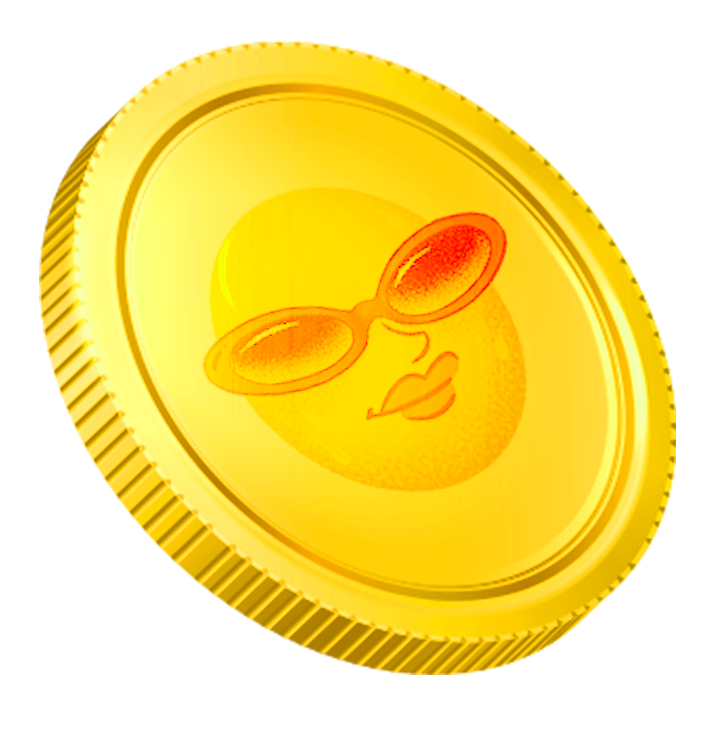
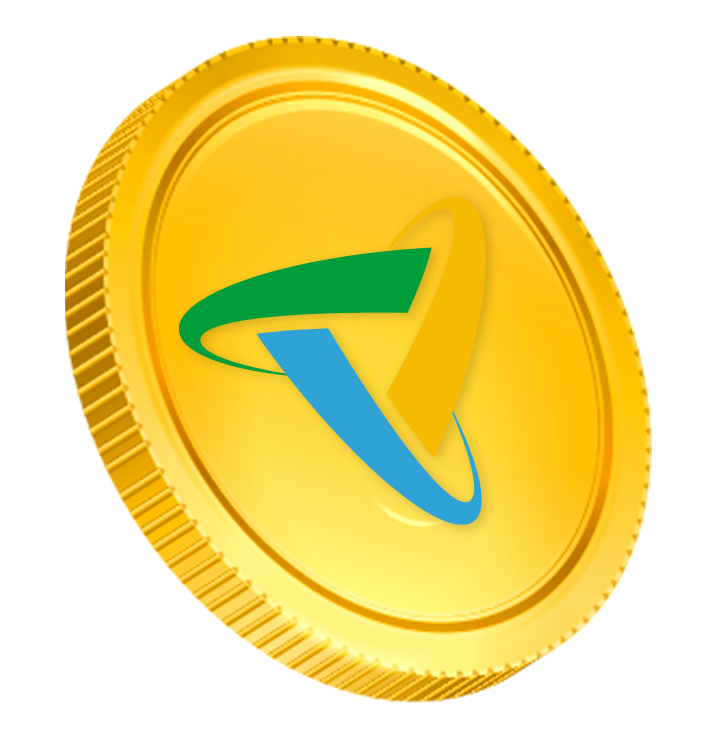
Reskin betplay

diff --git a/src/main.ts b/src/main.ts
@@ -14,7 +14,7 @@ async function boot() {
   document.body.appendChild(app.canvas);
 
   // --- Add FONDO_MALUMA.mp4 as PIXI video background ---
-  const fondoTexture = await PIXI.Assets.load("/assets/FONDO.png");
+  const fondoTexture = await PIXI.Assets.load("/assets/FONDO_MALUMA.mp4");
   const fondo = new PIXI.Sprite(fondoTexture);
   fondo.anchor.set(0.5);
   fondo.position.set(window.innerWidth / 2, window.innerHeight / 2);
@@ -59,7 +59,7 @@ async function boot() {
   ring.position.copyFrom(wheel.position);
   confetti.position.copyFrom(wheel.position);
 
-  const logoTexture = await PIXI.Assets.load("/assets/LOGO-LA-SOLAR.png");
+  const logoTexture = await PIXI.Assets.load("/assets/FRASE_COPY.png");
   const logo = new PIXI.Sprite(logoTexture);
   logo.anchor.set(0.5);
   logo.scale.set(0.2); // Ajusta el tamaño según necesites

diff --git a/index.html b/index.html
@@ -26,7 +26,6 @@
         width: 120vw;
         height: 120vh;
         transform: translate(-50%, -50%);
-        background: url('/assets/FONDO.png') no-repeat center center;
         background-size: cover;
         background-attachment: fixed;
       }
